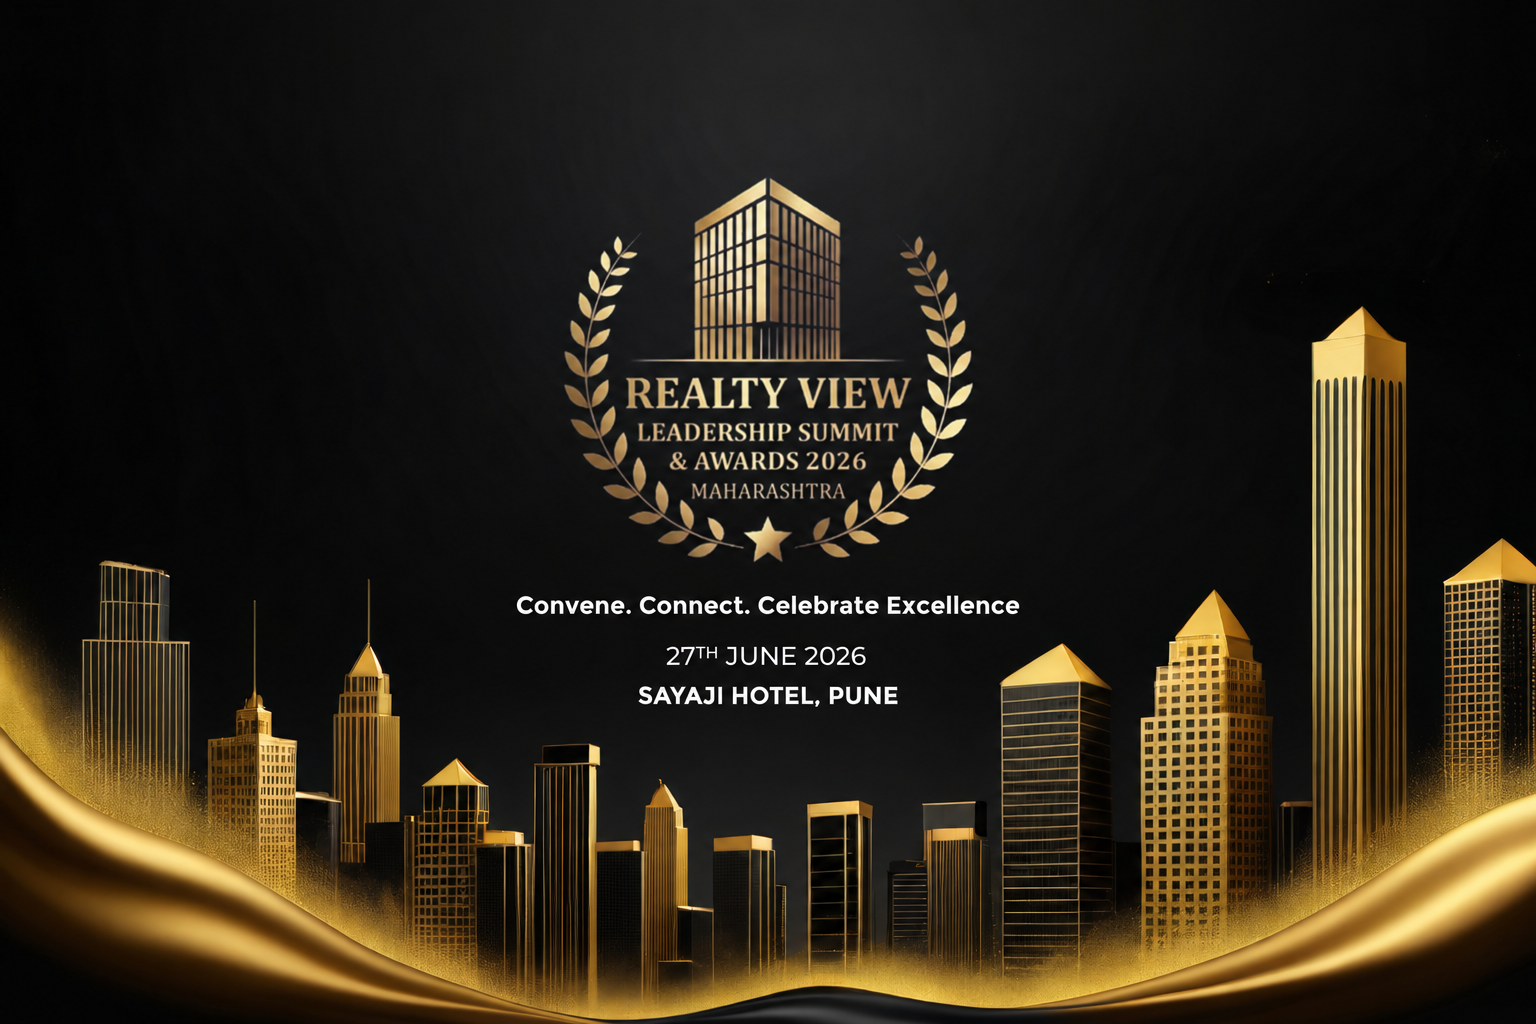
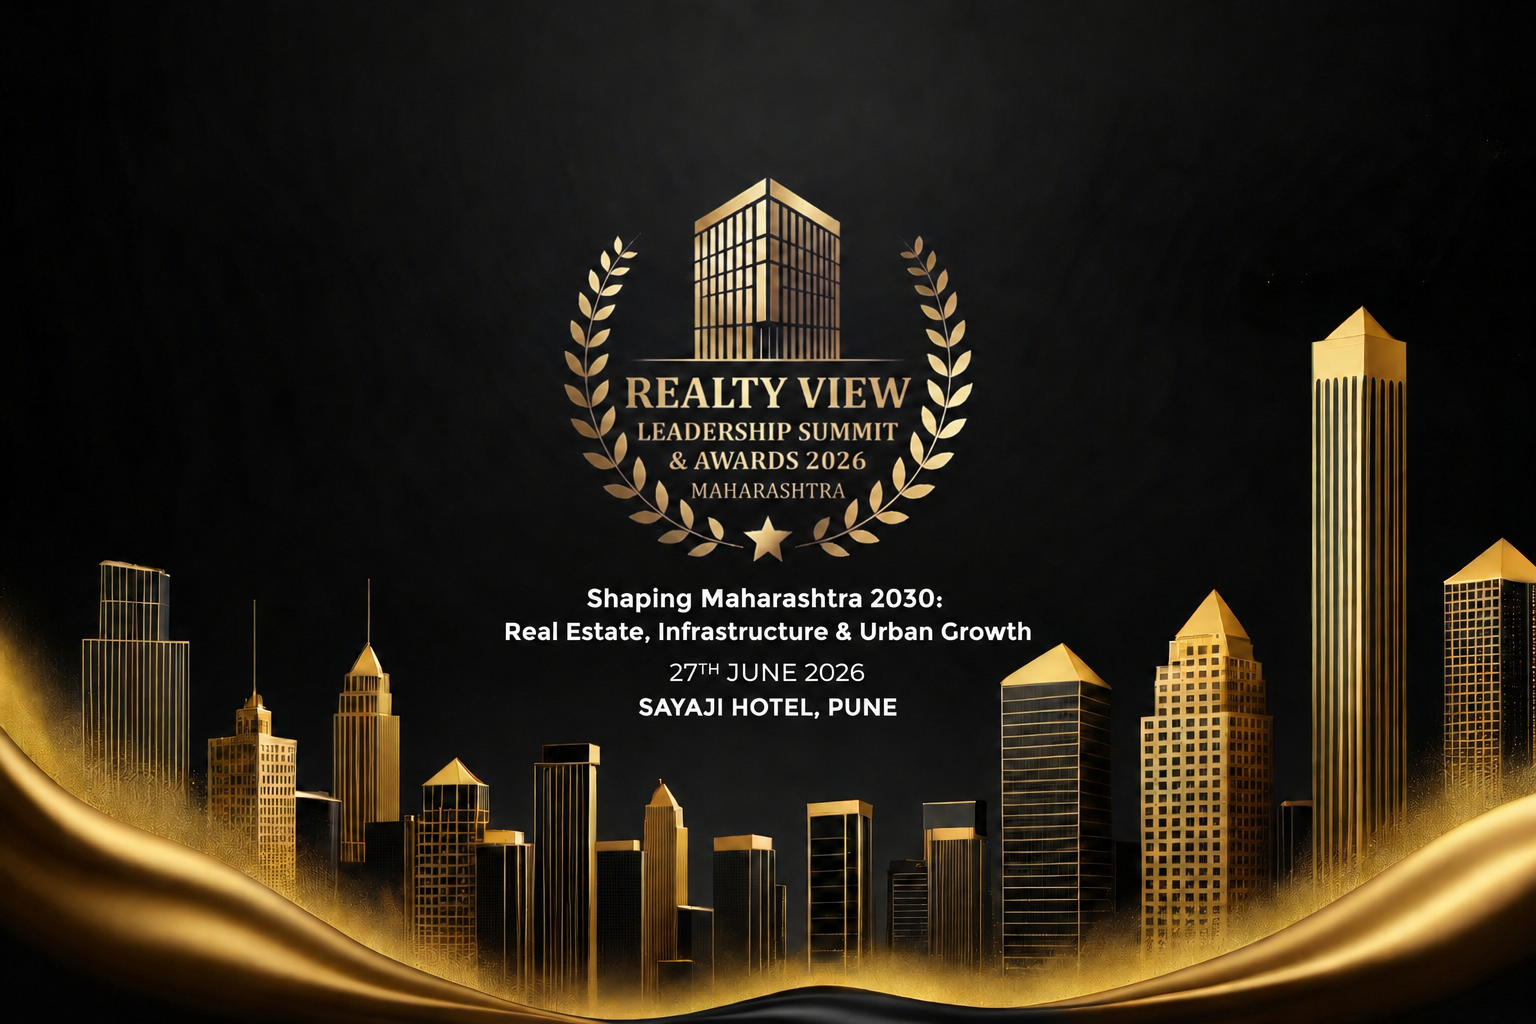
date change

diff --git a/src/pages/GrandMastersRealEstate2026.tsx b/src/pages/GrandMastersRealEstate2026.tsx
@@ -297,7 +297,7 @@ const GrandMastersRealEstate2026: React.FC = () => {
                         <div className="text-sm sm:text-base font-semibold text-[var(--text-primary)]">
                           Last date for nominations
                         </div>
-                        <div className="text-sm sm:text-base text-[var(--text-secondary)]">30th May, 2026</div>
+                        <div className="text-sm sm:text-base text-[var(--text-secondary)]">12th June, 2026</div>
                       </div>
                     </div>
 

diff --git a/src/pages/TopNextGenAwards.tsx b/src/pages/TopNextGenAwards.tsx
@@ -232,7 +232,7 @@ const TopNextGenAwards: React.FC = () => {
                         Nominations Deadline
                       </div>
                       <div className="text-sm sm:text-base text-[var(--text-secondary)]">
-                        April 30, 2026
+                        12th June, 2026
                       </div>
                     </div>
                   </div>